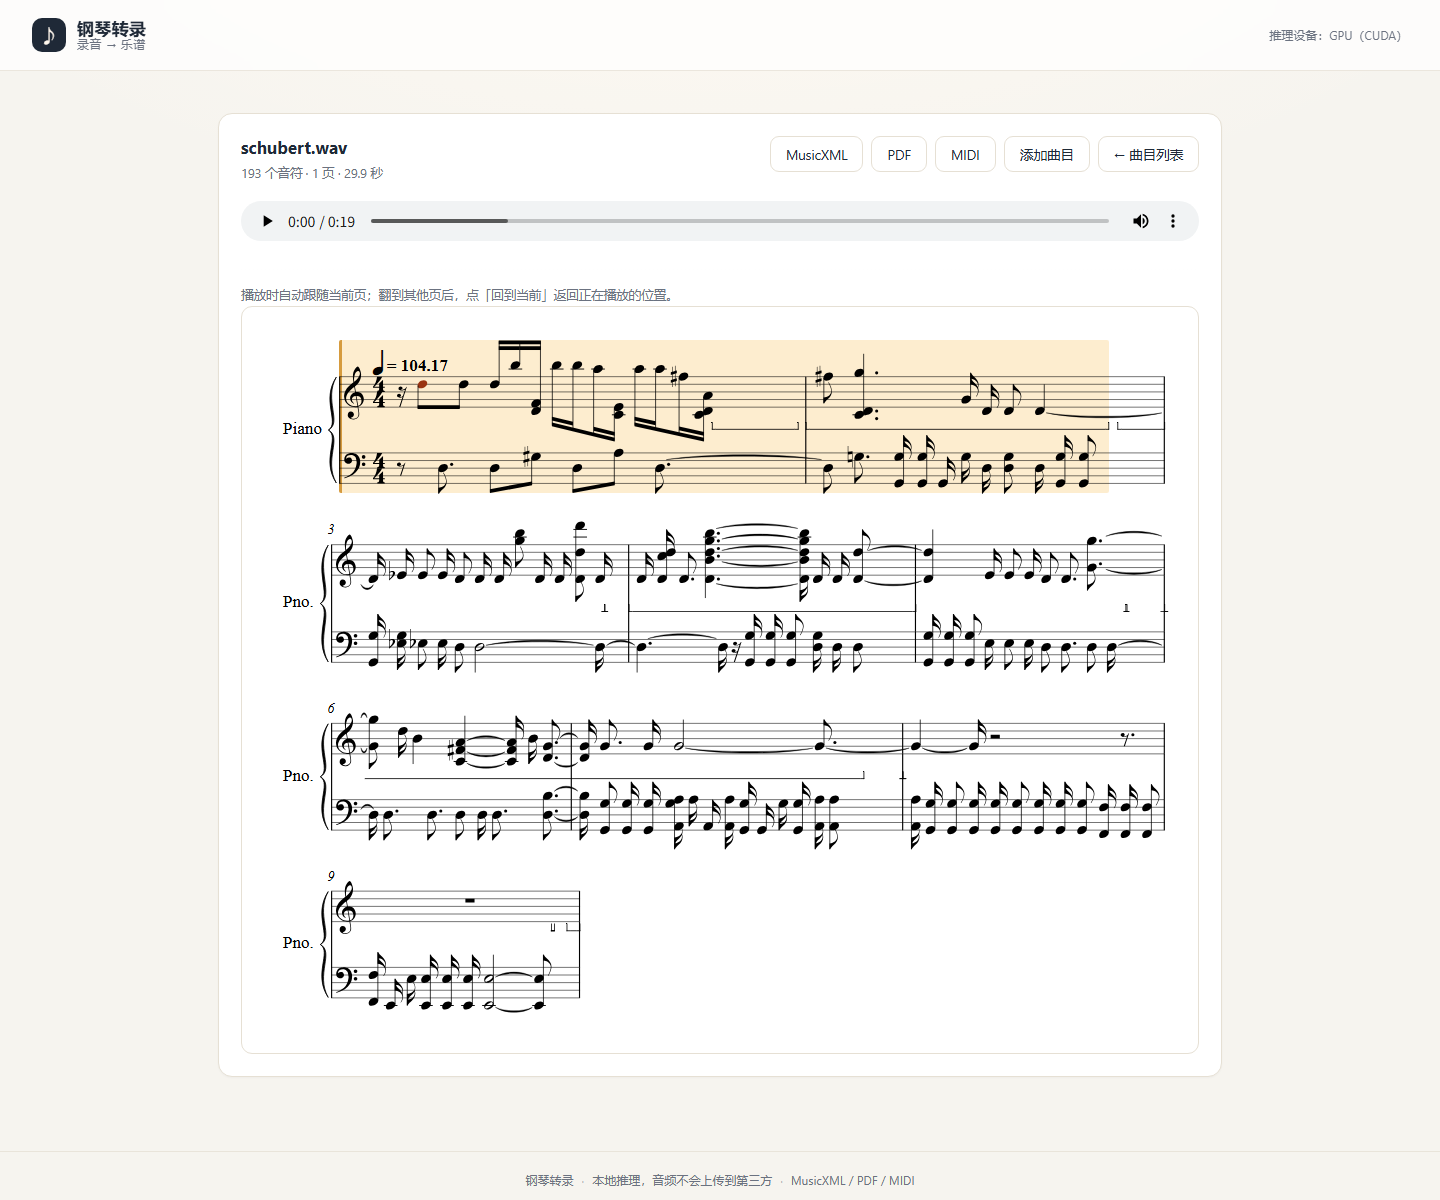
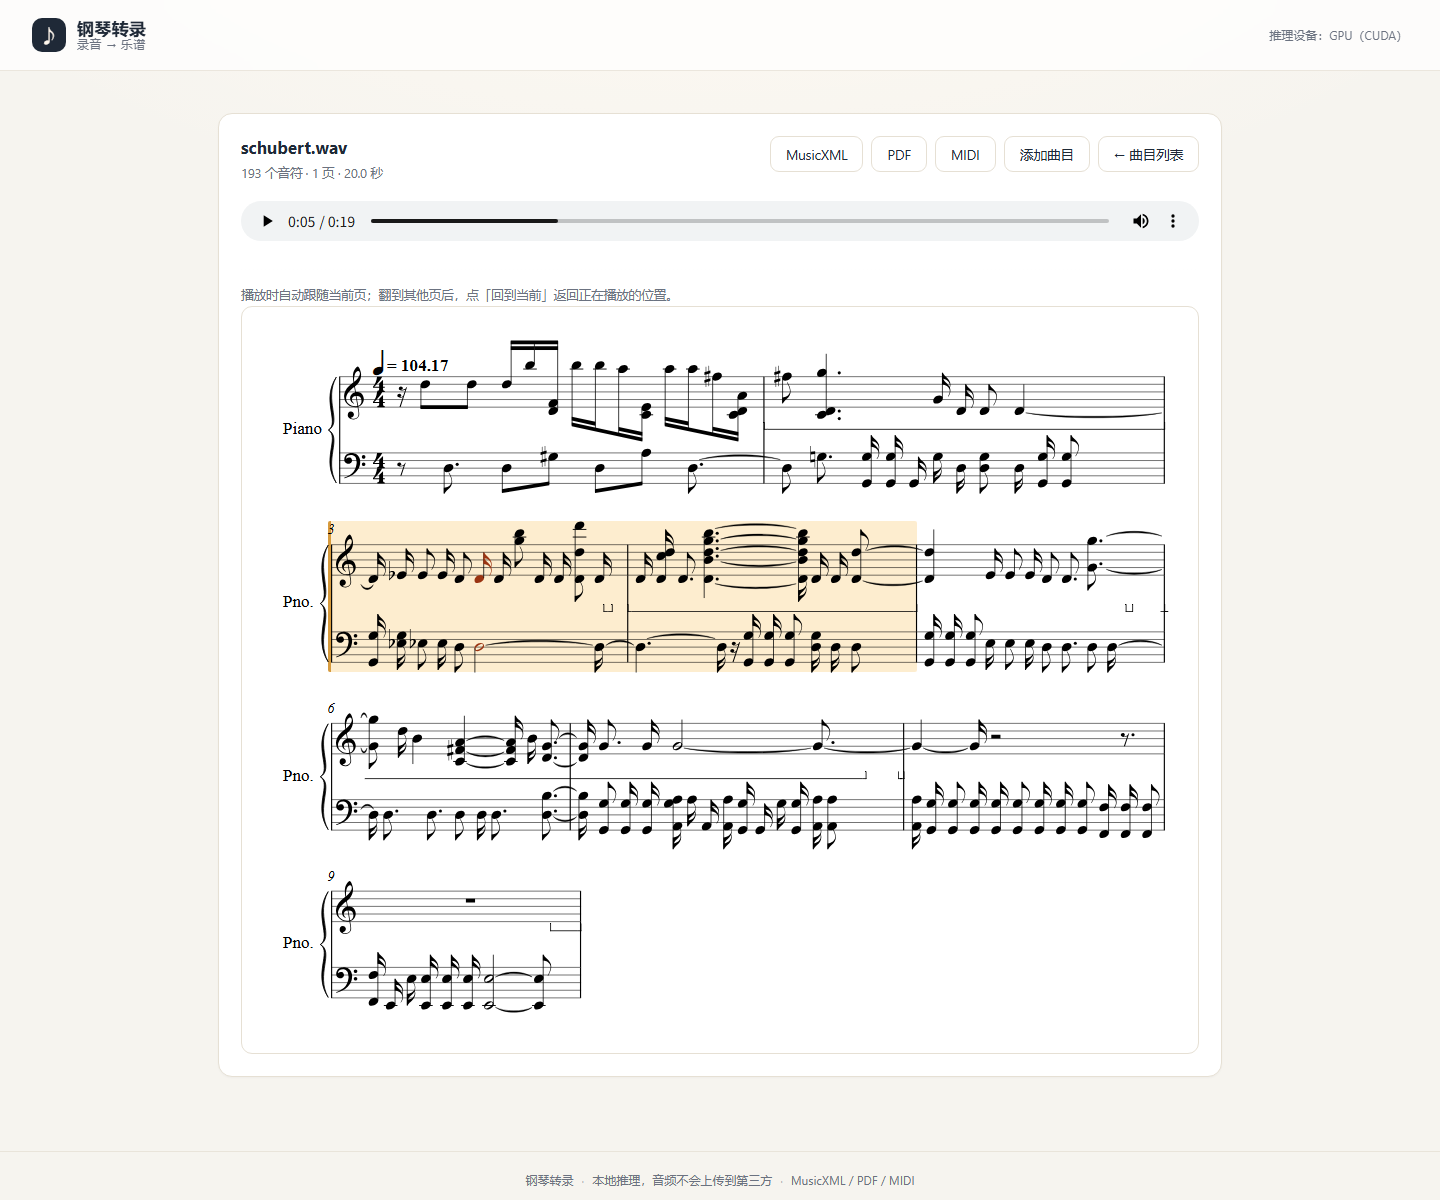
fix: 修正播放时间轴、小节高亮、踏板断裂和上传限制
- app/render_service.py 的 render_svg_with_timing() 改为接收原始音频时间，用 verovio timemap 把音频时间映射到乐谱时间；timing.json 的 duration 改为音频时长，解决 20s 音频被显示成 29.9s/166s 的问题
- app/static/app.js 的 sampleIndexAt() 在第一个谱面事件前返回 -1，避免开头提前高亮；updateHighlight() 同步清理旧高亮
- src/piano2/decode.py 新增 smooth_pedal_events()：相邻踏板 gap ≤ 0.90s 合并、松开尾巴延长 0.12s，减少相邻小节直接断开再踩的割裂感
- app/pipeline.py 在 decode_pedal() 后统一调用踏板平滑，再写 playback.mid 和谱面踏板线
- 上传限制改为最多 5 首、单首 ≤ 300 MB；后端 MAX_UPLOAD_MB=300，前端单文件校验和 1.5 GB 总上限同步
- 补 tests/test_refine_onsets.py 的踏板合并/大间隔测试
- docs/08_m4_app.md、tutorial/07_running_app.md 更新 M4.3 行为说明和截图

co-authored by: DeepSeek Harness 0.2.2-rc.3 (deepseek-flash / DeepSeek-V41-Flash)

diff --git a/app/static/app.js b/app/static/app.js
@@ -4,8 +4,9 @@ const el = (id) => document.getElementById(id);
 const STAGES = ["排队中", "提取特征（CQT）", "模型推理", "解码成音符", "生成乐谱",
                 "导出 MIDI（与谱面同一时间轴）", "渲染乐谱", "合成回放音频", "完成"];
 
-const MAX_TRACKS = 10;
-const MAX_TOTAL_BYTES = 100 * 1024 * 1024;
+const MAX_TRACKS = 5;
+const MAX_FILE_BYTES = 300 * 1024 * 1024;
+const MAX_TOTAL_BYTES = 5 * 300 * 1024 * 1024;
 const ALLOWED = /\.(wav|mp3|m4a|flac|ogg|aac|webm)$/i;
 
 const state = {
@@ -112,7 +113,7 @@ function addFiles(fileList) {
       continue;
     }
     if (totalBytes() + f.size > MAX_TOTAL_BYTES) {
-      errors.push(`总大小不能超过 100 MB，已忽略 ${f.name}`);
+      errors.push(`总大小不能超过 1.5 GB，已忽略 ${f.name}`);
       continue;
     }
     state.tracks.push({
@@ -181,7 +182,7 @@ function renderTracks() {
     const nDone = state.tracks.filter((t) => t.status === "done").length;
     el("tracks-title").textContent = state.processing ? "正在转录…" : "曲目列表";
     el("tracks-summary").textContent =
-      `${state.tracks.length} / ${MAX_TRACKS} 首 · ${formatSize(totalBytes())} / 100 MB` +
+      `${state.tracks.length} / ${MAX_TRACKS} 首 · ${formatSize(totalBytes())} / 1.5 GB` +
       ` · 已完成 ${nDone} 首`;
     el("add-btn").disabled = state.processing || state.tracks.length >= MAX_TRACKS;
     el("start-btn").disabled = state.processing ||
@@ -306,6 +307,8 @@ async function startTranscription() {
 
 function sampleIndexAt(t) {
   if (!view.samples.length) return -1;
+  // 音频起点到第一个谱面事件之间不该提前高亮下一小节。
+  if (t < view.samples[0].t - 0.05) return -1;
   let lo = 0, hi = view.samples.length - 1, idx = 0;
   while (lo <= hi) {
     const mid = (lo + hi) >> 1;
@@ -518,7 +521,10 @@ function paintSample(idx) {
 function updateHighlight() {
   if (!view.samples.length || !view.audio) return;
   const idx = sampleIndexAt(view.audio.currentTime || 0);
-  if (idx < 0) return;
+  if (idx < 0) {
+    if (view.currentSample !== -1) clearActive();
+    return;
+  }
   const s = view.samples[idx];
   if (view.playing && view.follow) {
     const target = Math.max(0, Number(s.page) - 1);

diff --git a/app/static/index.html b/app/static/index.html
@@ -36,7 +36,7 @@
         <div class="dz-icon" aria-hidden="true">♫</div>
         <div class="dz-title">拖入钢琴录音</div>
         <div class="dz-hint">
-          WAV / MP3 / M4A / FLAC · 最多 10 首 · 总大小 ≤ 100 MB<br />
+          WAV / MP3 / M4A / FLAC · 最多 5 首 · 单首 ≤ 300 MB<br />
           仅支持独奏钢琴；选择后先加入列表，不会自动转录。
         </div>
         <button class="btn primary" id="pick-btn">选择文件</button>

diff --git a/app/render_service.py b/app/render_service.py
@@ -110,21 +110,28 @@ def _png_size(png_path):
     return width, height
 
 
-def render_svg_with_timing(xml_path, n_pages, times_ms, page_width=2200, scale=48):
-    """一次加载内同时渲染全部 SVG 页并采样时间轴，保证元素 id 一致。
+def render_svg_with_timing(xml_path, n_pages, times_s, audio_duration_s,
+                           page_width=2200, scale=48):
+    """一次加载内渲染全部 SVG 页，并把「音频时间」映射到乐谱元素。
 
     关键点：verovio 每次 loadFile 会重新生成元素 id，所以「渲染 SVG」和
     「查询某时刻的元素」必须在同一次加载里完成，否则 id 对不上。
 
+    另一个关键点：原始音频时长和量化的乐谱时长可能略有差异。这里用
+    verovio 的 timemap 取乐谱实际时长，再把音频时间按比例映射到乐谱时间；
+    返回的采样 t 仍然是**音频时间**，前端可以直接和 audio.currentTime 比较。
+
     参数:
         xml_path (str): MusicXML 路径。
         n_pages (int): 页数。
-        times_ms (list[float]): 采样时间点（毫秒）。
+        times_s (list[float]): 音频时间采样点（秒）。
+        audio_duration_s (float): 原始音频时长（秒）。
         page_width (int): 页面宽度。
         scale (int): 缩放。
 
     返回:
-        tuple[list[str], list[dict]]: (SVG 文本列表, 时间轴采样)。
+        tuple[list[str], list[dict], float]:
+            (SVG 文本列表, 时间轴采样, 乐谱实际时长秒)。
     """
     import re
 
@@ -135,14 +142,29 @@ def render_svg_with_timing(xml_path, n_pages, times_ms, page_width=2200, scale=4
         _apply_options(tk, page_width=page_width, scale=scale)
         if not tk.loadFile(str(xml_path)):
             raise RuntimeError(f"verovio 无法加载: {xml_path}")
+        score_duration_s = 0.0
+        try:
+            timemap = tk.renderToTimemap()
+            score_duration_s = max(
+                (float(item.get("tstamp", 0)) for item in timemap if isinstance(item, dict)),
+                default=0.0,
+            ) / 1000.0
+        except Exception:
+            # verovio 版本差异时退化为按采样范围查询；不影响 SVG 渲染。
+            score_duration_s = 0.0
+        score_duration_s = max(score_duration_s, 0.001)
+        audio_duration_s = max(float(audio_duration_s), 0.001)
+
         for pg in range(1, n_pages + 1):
             svgs.append(tk.renderToSVG(pg))
         id_page = {}
         for page, svg in enumerate(svgs, 1):
             for match in re.finditer(r'id="([^"]+)"', svg):
                 id_page.setdefault(match.group(1), page)
-        for ms in times_ms:
-            data = tk.getElementsAtTime(int(ms))
+        for t_audio in times_s:
+            t_audio = min(max(float(t_audio), 0.0), audio_duration_s)
+            score_ms = int(round(t_audio / audio_duration_s * score_duration_s * 1000.0))
+            data = tk.getElementsAtTime(score_ms)
             ids = [i for i in data.get("notes", []) if i in id_page]
             if not ids:
                 continue
@@ -150,9 +172,9 @@ def render_svg_with_timing(xml_path, n_pages, times_ms, page_width=2200, scale=4
             measure = data.get("measure")
             page = data.get("page") or id_page[ids[0]]
             measures = [measure] if measure in id_page else []
-            samples.append({"t": round(ms / 1000.0, 2),
+            samples.append({"t": round(t_audio, 2),
                             "page": int(page), "ids": ids, "measures": measures})
-    return svgs, samples
+    return svgs, samples, score_duration_s
 
 
 def render_svg(xml_path, page=1, page_width=2200, scale=48):

diff --git a/app/pipeline.py b/app/pipeline.py
@@ -23,6 +23,7 @@ import shutil
 import subprocess
 import time
 
+import librosa
 import numpy as np
 import pretty_midi
 import pymupdf
@@ -30,7 +31,13 @@ import soundfile as sf
 import verovio
 
 from piano2.constants import CKPT, DECODE_DEFAULTS
-from piano2.decode import DecodeConfig, decode, decode_pedal, refine_onsets
+from piano2.decode import (
+    DecodeConfig,
+    decode,
+    decode_pedal,
+    refine_onsets,
+    smooth_pedal_events,
+)
 from piano2.inference import compute_cqt, infer_sliding_window, load_model, pick_device
 from piano2.notation import write_musicxml
 from . import render_service
@@ -324,6 +331,8 @@ def transcribe(audio_path, out_dir, holder, title="钢琴转录", progress=None,
         if postprocess:
             from piano2.postprocess import postprocess_events
             events, _stats = postprocess_events(events, onset=onset, frame=frame)
+    # 相邻踏板区间跨小节时合并/延长尾巴，减少回放中的硬切断。
+    pedal_events = smooth_pedal_events(pedal_events)
     stage("生成乐谱")
     xml_path = os.path.join(out_dir, "score.musicxml")
     write_musicxml([(e.pitch, e.start, e.end, e.velocity) for e in events],
@@ -339,17 +348,19 @@ def transcribe(audio_path, out_dir, holder, title="钢琴转录", progress=None,
     pmid = pretty_midi.PrettyMIDI(midi_path)
     midi_notes = sorted((n for inst in pmid.instruments for n in inst.notes),
                         key=lambda n: n.start)
-    duration = float(pmid.get_end_time())
+    audio_duration = float(librosa.get_duration(path=audio_path))
 
     stage("渲染乐谱")
     n_pages = render_service.page_count(xml_path)
     n_pages = max(1, min(int(n_pages), 20))  # 防御：异常文件最多渲染 20 页
     step = 0.1
-    times_ms, t = [], 0.0
-    while t <= duration + 0.05:
-        times_ms.append(t * 1000.0)
+    times_s, t = [], 0.0
+    while t <= audio_duration + 0.05:
+        times_s.append(t)
         t += step
-    svg_texts, samples = render_service.render_svg_with_timing(xml_path, n_pages, times_ms)
+    svg_texts, samples, score_duration = render_service.render_svg_with_timing(
+        xml_path, n_pages, times_s, audio_duration
+    )
 
     svg_names = []
     for pg, svg in enumerate(svg_texts, 1):
@@ -357,7 +368,7 @@ def transcribe(audio_path, out_dir, holder, title="钢琴转录", progress=None,
         with open(os.path.join(out_dir, svg_name), "w", encoding="utf-8") as fh:
             fh.write(svg)
         svg_names.append(svg_name)
-    timing = {"step": step, "duration": round(duration, 2), "samples": samples}
+    timing = {"step": step, "duration": round(audio_duration, 2), "samples": samples}
     with open(os.path.join(out_dir, "timing.json"), "w", encoding="utf-8") as fh:
         json.dump(timing, fh, ensure_ascii=False)
 
@@ -386,7 +397,8 @@ def transcribe(audio_path, out_dir, holder, title="钢琴转录", progress=None,
         "timing": "timing.json",
         "pages": [os.path.basename(p) for p in page_paths],
         "svg_pages": svg_names,
-        "duration_s": round(duration, 2),
+        "duration_s": round(audio_duration, 2),
+        "score_duration_s": round(score_duration, 2),
         "n_events": len(events),
         "n_pages": len(page_paths),
         "elapsed_s": round(time.time() - t0, 1),

diff --git a/src/piano2/decode.py b/src/piano2/decode.py
@@ -434,6 +434,41 @@ def refine_onsets(events, onset_reg, radius_frames=1, min_value=0.10):
     return refined
 
 
+def smooth_pedal_events(events, max_gap_s=0.90, release_tail_s=0.12):
+    """平滑踏板区间，减少相邻小节交界处的“断—再踩”割裂感。
+
+    规则：
+    1. 每个区间的松开时刻向后延长 release_tail_s，给钢琴自然释放留一点尾巴；
+    2. 相邻区间如果 gap ≤ max_gap_s，直接合并成一个连续踏板区间，不再先松开再踩下；
+    3. 大间隔保留，但前一个区间仍会延长尾巴。
+
+    参数:
+        events (list[PedalEvent]): decode_pedal 得到的踏板区间。
+        max_gap_s (float): 可合并的最大间隔（秒），默认 0.90。
+        release_tail_s (float): 松开尾巴延长量（秒），默认 0.12。
+
+    返回:
+        list[PedalEvent]: 平滑后的区间，按开始时间排序。
+    """
+    ordered = sorted(events, key=lambda e: e.start)
+    if not ordered:
+        return []
+    merged = []
+    for event in ordered:
+        start = max(0.0, float(event.start))
+        end = max(start, float(event.end))
+        if not merged:
+            merged.append(PedalEvent(start, end + release_tail_s))
+            continue
+        prev = merged[-1]
+        if start <= prev.end + max_gap_s:
+            merged[-1] = PedalEvent(prev.start, max(prev.end, end) + release_tail_s)
+        else:
+            merged[-1] = PedalEvent(prev.start, prev.end + release_tail_s)
+            merged.append(PedalEvent(start, end + release_tail_s))
+    return merged
+
+
 def decode_subframe(onset_reg, offset_reg, vel, onset_threshold=0.30,
                     offset_threshold=0.30, min_gap_s=0.05, fallback_dur=0.08):
     """用回归输出 + 亚帧插值解码音符事件。

diff --git a/tests/test_refine_onsets.py b/tests/test_refine_onsets.py
@@ -1,9 +1,9 @@
-"""onset_reg 亚帧修正测试。"""
+"""onset_reg 亚帧修正与踏板平滑测试。"""
 
 import numpy as np
 
 from piano2.core import NoteEvent
-from piano2.decode import refine_onsets
+from piano2.decode import PedalEvent, refine_onsets, smooth_pedal_events
 
 
 def test_refine_onsets_recovers_subframe_position():
@@ -27,3 +27,21 @@ def test_refine_onsets_keeps_flat_curve_start():
     events = [NoteEvent(60, 10 / 31.25, 20 / 31.25, 80)]
     refined = refine_onsets(events, onset_reg)
     assert refined[0].start == events[0].start
+def test_smooth_pedal_bridges_small_gap():
+    """相邻踏板间隔小于阈值时应合并，避免硬切断。"""
+    events = [PedalEvent(0.0, 1.0), PedalEvent(1.1, 2.0), PedalEvent(3.0, 4.0)]
+    out = smooth_pedal_events(events, max_gap_s=0.3, release_tail_s=0.05)
+    assert len(out) == 2
+    assert out[0].start == 0.0
+    assert out[0].end >= 2.05
+    assert out[1].start == 3.0
+    assert out[1].end >= 4.05
+
+
+def test_smooth_pedal_keeps_large_gap():
+    """大间隔不合并，但前一个区间仍延长尾巴。"""
+    events = [PedalEvent(0.0, 1.0), PedalEvent(2.0, 3.0)]
+    out = smooth_pedal_events(events, max_gap_s=0.3, release_tail_s=0.1)
+    assert len(out) == 2
+    assert out[0].end >= 1.1
+    assert out[1].start == 2.0

diff --git a/app/main.py b/app/main.py
@@ -25,7 +25,7 @@ MEDIA_ROOT = Path(OUTPUT_ROOT) / "app"
 MEDIA_ROOT.mkdir(parents=True, exist_ok=True)
 
 ALLOWED_SUFFIXES = {".wav", ".mp3", ".m4a", ".flac", ".ogg", ".aac", ".webm"}
-MAX_UPLOAD_MB = 100
+MAX_UPLOAD_MB = 300
 
 app = FastAPI(title="钢琴转录", version="0.2.0")
 store = JobStore(out_root=MEDIA_ROOT)

diff --git a/docs/08_m4_app.md b/docs/08_m4_app.md
@@ -260,7 +260,7 @@ IDLE（只有「选择文件」）
 
 约束：
 
-- 最多 **10 首**，总大小 **≤ 100 MB**（前端与后端都按单文件 100 MB 校验）；
+- 最多 **5 首**，单首 **≤ 300 MB**（前端与后端都按单文件 300 MB 校验）；
 - 转录完成后仍可继续添加；「开始转录」只处理状态为「待转录」的新曲目，已完成的不会重跑；
 - 已完成的曲目可以删除（会调用 `DELETE /api/jobs/{id}` 清理服务端产物）。
 
@@ -360,12 +360,35 @@ Dockerfile 默认使用阿里云 apt 镜像并安装 `fluidsynth` + `fluid-sound
 
 ![M4.3 结果页](figs/49_app_m43_result.png)
 
-### 12.3 验收
+### 12.3 时间轴与小节高亮
+
+- `render_svg_with_timing()` 现在接收**原始音频时间**，用 verovio timemap 取得乐谱实际时长，再按比例映射；
+  返回的采样 `t` 与 `audio.currentTime` 同一条时间轴；
+- `timing.json` 的 `duration` 改为原始音频时长，UI 的时长/进度条/高亮不再使用偏长的 `score.mid` 时长；
+- `sampleIndexAt()` 在第一个谱面事件之前返回 -1，避免暂停/开头提前高亮下一小节；
+- 小节高亮仍使用 verovio 当前 `measure` 元素，截取五线谱 staff 的屏幕包围盒。
+
+### 12.4 踏板平滑
+
+新增 `piano2.decode.smooth_pedal_events()`：
+
+- 相邻踏板区间 gap ≤ 0.90 s 时直接合并，避免「松开—立刻再踩」的硬切断；
+- 每个区间松开时刻延长 0.12 s，保留钢琴自然释放尾巴；
+- app 在 `decode_pedal()` 后统一做这一步，再写 `playback.mid` 的 CC64 和谱面踏板线。
+
+### 12.5 上传限制
+
+- 前端：最多 5 首，单首 ≤ 300 MB（总上限 1.5 GB）；
+- 后端：`MAX_UPLOAD_MB = 300`；
+- 文案、错误提示和曲目统计同步更新。
+
+### 12.6 验收
 
 ```text
 上传 20 秒 Schubert 录音 → 8 秒内完成 → 193 个音符 / 1 页
 API health 返回 device=cuda
 任务结果 model=hybrid
+timing.duration = 20.0，与 preview.wav 一致
 ```
 
 详细使用步骤见 `../tutorial/07_running_app.md`。

diff --git a/tutorial/07_running_app.md b/tutorial/07_running_app.md
@@ -20,7 +20,7 @@
 ## 使用步骤
 
 1. **打开页面**：浏览器访问 `http://127.0.0.1:8000`，右上角会显示推理设备；
-2. **选文件**：把音频拖进虚线框，或点「选择文件」；可以一次选多首（最多 10 首、总大小 ≤ 100 MB）；
+2. **选文件**：把音频拖进虚线框，或点「选择文件」；可以一次选多首（最多 5 首、单首 ≤ 300 MB）；
 3. **确认列表**：选择后**不会自动转录**，而是进入「曲目列表」；可以「删除」、继续「添加」，确认后点「开始转录」；
 4. **等待**：逐首串行转录，每首显示自己的状态和阶段；
 5. **看结果**：
@@ -53,7 +53,7 @@
 | 端口 8000 被占用 | 换端口：`--port 8001`，浏览器相应改地址 |
 | 上传后失败「不支持的格式」 | 只接受 wav / mp3 / m4a / flac / ogg / aac / webm |
 | 选完文件没有自动转录 | 这是 M4.2 的正常流程：先进入曲目列表，点「开始转录」才会上传并转录 |
-| 曲目列表无法添加 | 最多 10 首、总大小不超过 100 MB；删掉一些再试 |
+| 曲目列表无法添加 | 最多 5 首、单首不超过 300 MB；删掉一些再试 |
 | 只能看到一页 | 多页曲目用「上一页 / 下一页」或键盘 ←、→ 翻页；只有 1 页时控件隐藏 |
 | 播放回放不像钢琴 | 服务器缺少 FluidSynth 或 SoundFont，正在用简易合成器回退；装好后重启服务即可 |
 | 谱面时值不准 | 已知问题；hybrid 已改善起音时间，但谱面仍量化到 16 分音符，节奏细节还有误差 |
